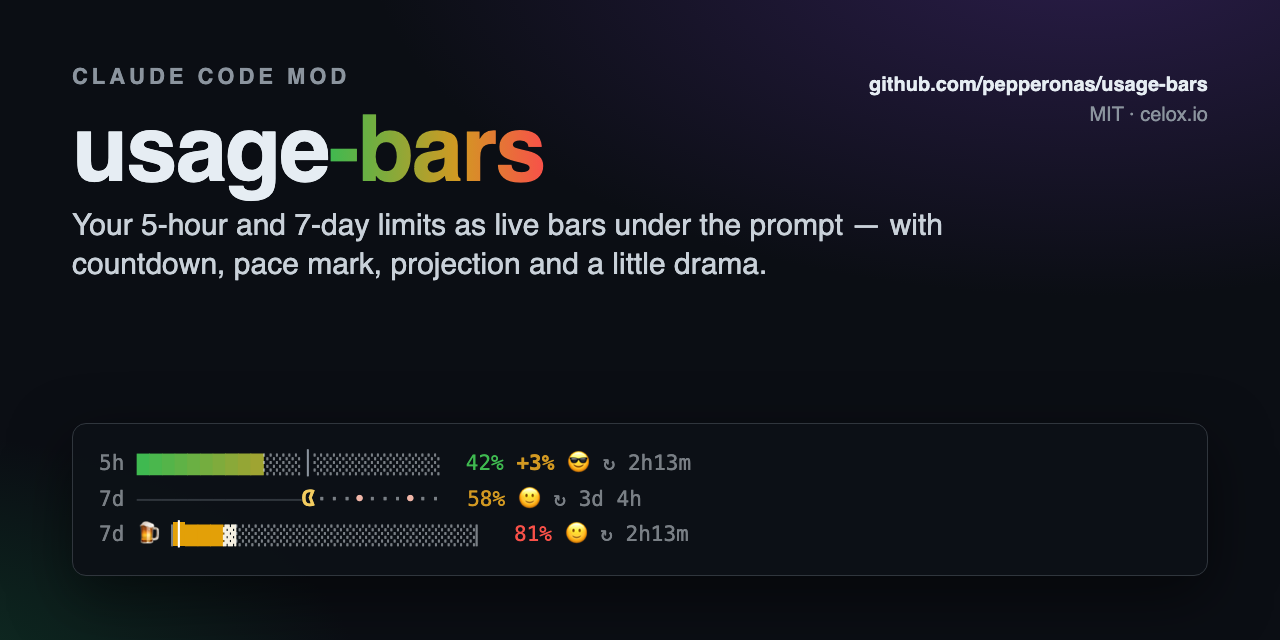
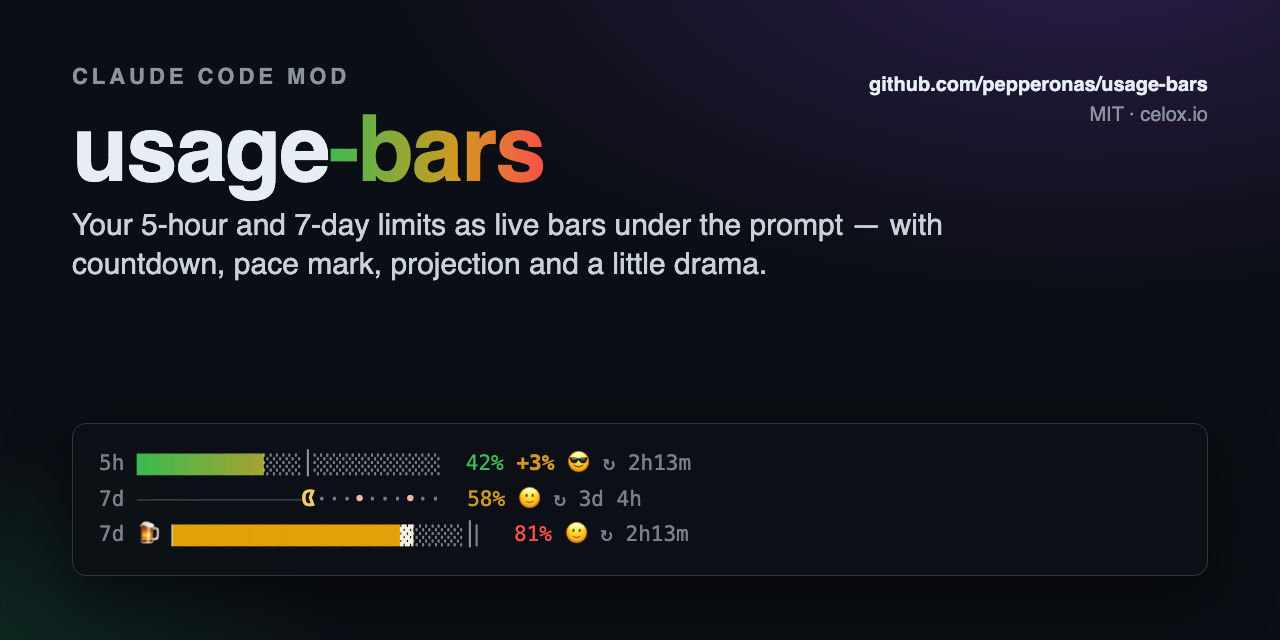
usage-bars 0.5.0: every style fills with what is used
beer, tank, battery and hourglass filled with what was left while the
percent next to them showed what was used, and their pace mark was
mirrored. All six styles now read like bars: fill from the left is used,
the empty part behind it is left, the pace mark sits in the same cell,
fill colours follow the used percent. tank drops its E…F labels.

Claude-Session: https://claude.ai/code/session_01F4Q3EovnSAXKLjWUuwJyKq

Changed region(s): [[0.125, 0.8125, 0.375, 0.875]]

diff --git a/hooks/styles.ts b/hooks/styles.ts
@@ -86,14 +86,22 @@ function pacman(p: number, width: number, ctx: StyleCtx): Seg[] {
   return merge(segs)
 }
 
-/** Beer, battery, tank and hourglass show what is LEFT. */
+/** Traffic-light colour of a fill by what is used, as the percent next to it. */
+const usedColor = (p: number) => (p >= 80 ? RED : p >= 50 ? YELLOW : GREEN)
+
+/*
+ * Every style reads like `bars`: the fill from the left is what is used, the
+ * empty track behind it is what is left, and the pace mark sits at the same cell.
+ */
+
+/** The glass fills with what you drank; the foam rides on top. */
 function beer(p: number, width: number, ctx: StyleCtx): Seg[] {
-  const left = Math.round(cover(100 - p, width))
-  const mark = markCell(ctx.pace === undefined ? undefined : 1 - ctx.pace, width)
+  const used = Math.round(cover(p, width))
+  const mark = markCell(ctx.pace, width)
   const segs: Seg[] = [{ text: '🍺' }, { text: '▕', dim: true }]
   for (let i = 0; i < width; i++) {
-    if (i < left - 1) segs.push(i === mark ? tick('#e3a008') : { text: '█', color: '#e3a008' })
-    else if (i === left - 1) segs.push({ text: '▓', color: '#f5f0e1' })
+    if (i < used - 1) segs.push(i === mark ? tick('#e3a008') : { text: '█', color: '#e3a008' })
+    else if (i === used - 1) segs.push({ text: '▓', color: '#f5f0e1' })
     else if (i === mark) segs.push({ text: '│', color: MARK })
     else segs.push({ text: '░', dim: true })
   }
@@ -101,11 +109,12 @@ function beer(p: number, width: number, ctx: StyleCtx): Seg[] {
   return merge(segs)
 }
 
+/** Drained charge from the left; ⚡ flashes from 90 % used. */
 function battery(p: number, width: number, ctx: StyleCtx): Seg[] {
-  const left = 100 - clamp(p, 0, 100)
-  const n = Math.round(cover(left, width))
-  const col = left <= 20 ? RED : left <= 50 ? YELLOW : GREEN
-  const mark = markCell(ctx.pace === undefined ? undefined : 1 - ctx.pace, width)
+  const used = clamp(p, 0, 100)
+  const n = Math.round(cover(used, width))
+  const col = usedColor(used)
+  const mark = markCell(ctx.pace, width)
   const segs: Seg[] = [{ text: '▕', dim: true }]
   for (let i = 0; i < width; i++) {
     if (i < n) segs.push(i === mark ? tick(col) : { text: '█', color: col })
@@ -113,32 +122,33 @@ function battery(p: number, width: number, ctx: StyleCtx): Seg[] {
     else segs.push({ text: '░', dim: true })
   }
   segs.push({ text: '▏', dim: true }, { text: '▌', dim: true })
-  if (left <= 10 && ctx.second % 2 === 0) segs.push({ text: '⚡', color: YELLOW })
+  if (used >= 90 && ctx.second % 2 === 0) segs.push({ text: '⚡', color: YELLOW })
   return merge(segs)
 }
 
+/** Burnt fuel ▮ from the left, what is left ▯ behind it. */
 function tank(p: number, width: number, ctx: StyleCtx): Seg[] {
   const cells = Math.max(4, Math.floor(width / 2))
-  const left = 100 - clamp(p, 0, 100)
-  const n = Math.round((left / 100) * cells)
-  const col = left <= 20 ? RED : left <= 50 ? YELLOW : GREEN
-  const mark = markCell(ctx.pace === undefined ? undefined : 1 - ctx.pace, cells)
-  const segs: Seg[] = [{ text: '⛽E ', dim: true }]
+  const used = clamp(p, 0, 100)
+  const n = Math.round((used / 100) * cells)
+  const col = usedColor(used)
+  const mark = markCell(ctx.pace, cells)
+  const segs: Seg[] = [{ text: '⛽ ', dim: true }]
   for (let i = 0; i < cells; i++) {
     const glyph = i < n ? '▮' : '▯'
     segs.push(i === mark ? { text: glyph, color: TICK, bold: true } : i < n ? { text: glyph, color: col } : { text: glyph, dim: true })
   }
-  segs.push({ text: ' F', dim: true })
   return merge(segs)
 }
 
+/** Sand that has run through ⣿ from the left, sand still to come ⣀ behind it. */
 function hourglass(p: number, width: number, ctx: StyleCtx): Seg[] {
-  const left = Math.round(cover(100 - p, width))
-  const mark = markCell(ctx.pace === undefined ? undefined : 1 - ctx.pace, width)
+  const used = Math.round(cover(p, width))
+  const mark = markCell(ctx.pace, width)
   const segs: Seg[] = [{ text: ctx.second % 2 === 0 ? '⏳' : '⌛' }]
   for (let i = 0; i < width; i++) {
     if (i === mark) segs.push({ text: '│', color: MARK })
-    else if (i < left) segs.push({ text: '⣿', color: '#d4a373' })
+    else if (i < used) segs.push({ text: '⣿', color: '#d4a373' })
     else segs.push({ text: '⣀', dim: true })
   }
   return merge(segs)

diff --git a/tests/styles.spec.ts b/tests/styles.spec.ts
@@ -21,7 +21,7 @@ test('bars: the pace mark sits right after where even use would end', () => {
 
 test('the pace mark inside a filled bar is a thin line on the fill, not a block', () => {
   for (const style of ['bars', 'battery', 'beer'] as const) {
-    const p = style === 'bars' ? 90 : 10 // the mark lands inside the filled part
+    const p = 90 // the mark lands inside the filled part
     const mark = drawStyle(style, p, 10, { ...ctx, pace: 0.5 }).find(s => s.text === '│')
     assert.ok(mark, `${style}: no mark`)
     assert.ok(mark.bg, `${style}: the mark has no fill behind it`)
@@ -45,11 +45,31 @@ test('pacman eats up to the value; a ghost chases it from 90 %', () => {
   assert.ok(text(drawStyle('pacman', 50, 10, { ...ctx, chomp: true })).includes('●'))
 })
 
-test('battery, beer, tank and hourglass show what is left', () => {
-  assert.equal((text(drawStyle('battery', 30, 10, ctx)).match(/█/g) ?? []).length, 7)
-  assert.equal(text(drawStyle('tank', 50, 20, ctx)), '⛽E ▮▮▮▮▮▯▯▯▯▯ F')
-  assert.ok(text(drawStyle('beer', 0, 4, ctx)).startsWith('🍺'))
-  assert.equal((text(drawStyle('hourglass', 75, 8, ctx)).match(/⣿/g) ?? []).length, 2)
+test('every style fills with what is used, what is left stays behind it', () => {
+  assert.equal(text(drawStyle('battery', 30, 10, ctx)), '▕███░░░░░░░▏▌')
+  assert.equal(text(drawStyle('tank', 30, 20, ctx)), '⛽ ▮▮▮▯▯▯▯▯▯▯')
+  assert.equal(text(drawStyle('beer', 25, 8, ctx)), '🍺▕█▓░░░░░░▏')
+  assert.equal(text(drawStyle('hourglass', 75, 8, ctx)), '⏳⣿⣿⣿⣿⣿⣿⣀⣀')
+})
+
+test('the pace mark sits in the same cell in every style', () => {
+  const prefix: Record<string, number> = { bars: 0, beer: 2, battery: 1, hourglass: 1 }
+  // an uneven pace: a mirrored mark would land somewhere else
+  for (const [style, skip] of Object.entries(prefix)) {
+    const chars = [...text(drawStyle(style as 'bars', 10, 8, { ...ctx, pace: 0.75 }))]
+    assert.equal(chars.indexOf('│') - skip, 6, style)
+  }
+  // tank: 8 cells at width 16, a quarter of the window gone → cell 2, like bars on 8 cells
+  const segs = drawStyle('tank', 10, 16, { ...ctx, pace: 0.25 })
+  const at = segs.findIndex(s => s.bold)
+  const before = segs.slice(0, at).reduce((n, s) => n + [...s.text].length, 0)
+  assert.equal(before - 2, [...text(drawStyle('bars', 10, 8, { ...ctx, pace: 0.25 }))].indexOf('│'))
+})
+
+test('fill colours follow what is used, like the percent next to them', () => {
+  assert.equal(drawStyle('battery', 20, 10, ctx).find(s => s.text.includes('█'))!.color, '#3fb950')
+  assert.equal(drawStyle('battery', 85, 10, ctx).find(s => s.text.includes('█'))!.color, '#f85149')
+  assert.equal(drawStyle('tank', 85, 20, ctx).find(s => s.text.includes('▮'))!.color, '#f85149')
 })
 
 test('the battery flashes ⚡ when almost empty', () => {

diff --git a/hooks/styles.test.ts b/hooks/styles.test.ts
@@ -19,11 +19,11 @@ describe('styles', () => {
     expect(text(drawStyle('pacman', 92, 12, ctx))).toBe('─────────ᗣ─ᗧ')
     expect(text(drawStyle('pacman', 50, 10, { ...ctx, chomp: true }))).toContain('●')
   })
-  test('battery, beer, tank and hourglass show what is left', async () => {
-    expect((text(drawStyle('battery', 30, 10, ctx)).match(/█/g) ?? []).length).toBe(7)
-    expect(text(drawStyle('tank', 50, 20, ctx))).toBe('⛽E ▮▮▮▮▮▯▯▯▯▯ F')
-    expect(text(drawStyle('beer', 0, 4, ctx))).toContain('🍺')
-    expect((text(drawStyle('hourglass', 75, 8, ctx)).match(/⣿/g) ?? []).length).toBe(2)
+  test('every style fills with what is used, what is left behind it', async () => {
+    expect(text(drawStyle('battery', 30, 10, ctx))).toBe('▕███░░░░░░░▏▌')
+    expect(text(drawStyle('tank', 30, 20, ctx))).toBe('⛽ ▮▮▮▯▯▯▯▯▯▯')
+    expect(text(drawStyle('beer', 25, 8, ctx))).toBe('🍺▕█▓░░░░░░▏')
+    expect(text(drawStyle('hourglass', 75, 8, ctx))).toBe('⏳⣿⣿⣿⣿⣿⣿⣀⣀')
   })
   test('every style draws at every value without throwing', async () => {
     for (const s of STYLES) for (const p of [0, 1, 49.5, 99, 100, 130]) expect(text(drawStyle(s, p, 12, { ...ctx, pace: 0.3 })).length > 0).toBe(true)

diff --git a/hooks/render.test.tsx b/hooks/render.test.tsx
@@ -237,7 +237,7 @@ test('prefs survive a new session through the store', async ($, on) => {
   await start($)
   await measure($, [{ kind: 'five_hour', percentUsed: 42 }])
   const ui = await mount($, 'terminal')
-  expect(await all(ui)).toContain('⛽E')
+  expect(await all(ui)).toContain('⛽ ')
 })
 
 test('/usage-bars demo plays the animation', async ($, on) => {

diff --git a/README.md b/README.md
@@ -14,8 +14,8 @@
 
 <h3>👉 <code>/plugin marketplace add pepperonas/usage-bars</code> · <code>/plugin install usage-bars@pepperonas</code> — that's it.</h3>
 
-[![version](https://img.shields.io/badge/version-0.4.2-7B4DFF?style=for-the-badge&logo=anthropic&logoColor=white)](CHANGELOG.md)
-[![node tests](https://img.shields.io/badge/node%20tests-73-2E9E5B?style=for-the-badge&logo=nodedotjs&logoColor=white)](tests)
+[![version](https://img.shields.io/badge/version-0.5.0-7B4DFF?style=for-the-badge&logo=anthropic&logoColor=white)](CHANGELOG.md)
+[![node tests](https://img.shields.io/badge/node%20tests-75-2E9E5B?style=for-the-badge&logo=nodedotjs&logoColor=white)](tests)
 [![engine tests](https://img.shields.io/badge/engine%20tests-41-2E9E5B?style=for-the-badge&logo=anthropic&logoColor=white)](hooks)
 [![lines of code](https://img.shields.io/badge/lines%20of%20code-0.9k-4B6BDF?style=for-the-badge&logo=typescript&logoColor=white)](hooks)
 
@@ -72,7 +72,7 @@
 
 <img src="docs/styles.png" alt="The six styles: bars, pacman, beer, tank, battery, hourglass" width="100%">
 
-<sub><code>bars</code> and <code>pacman</code> show what you <b>used</b>; <code>beer</code>, <code>tank</code>, <code>battery</code> and <code>hourglass</code> show what is <b>left</b>. Switch with <code>/usage-bars style &lt;name&gt;</code> — or just <code>/usage-bars pacman</code>.</sub>
+<sub>Every style reads the same way: the fill from the left is what you <b>used</b> — the same number as the percent next to it — and the empty part behind it is what is <b>left</b>. The pace mark sits in the same place in every style. Switch with <code>/usage-bars style &lt;name&gt;</code> — or just <code>/usage-bars pacman</code>.</sub>
 
 ### Hover card
 
@@ -95,7 +95,7 @@
 - **Every session shows the same figures** — a session only hears about the limits from its own answers, so an idle one would keep showing old numbers, or zero a window another session already uses. Each session hands what it hears to the others through the mod's store, and every session looks there every 5 seconds.
 - **100 % gets a quip** — `☕ Coffee break – back in 1h12m`, one of seven, stable per window.
 - **Toasts** at 50 / 80 / 90 / 100 %, once per window (remembered across sessions), with an optional chime at 90 % and on reset.
-- **Six styles** — `bars`, `pacman` (a ghost chases Pac-Man from 90 %), `beer`, `tank`, `battery` (⚡ flashes when nearly empty), `hourglass`.
+- **Six styles** — `bars`, `pacman` (a ghost chases Pac-Man from 90 %), `beer`, `tank`, `battery` (⚡ flashes from 90 % used), `hourglass`.
 - **Compact mode** — `5h 42% 😎 ↻2h13m   7d 67% 😬 ↻3d 4h`; automatic below 72 columns.
 - **Stats** — `/usage-bars stats`: burn rate, projection, sparklines of your 5-hour peaks over 24 h and 7 days, your record.
 - **English and German** — `/usage-bars lang de`.
@@ -259,6 +259,7 @@ npm run screenshots      # re-render docs/ (needs `npx playwright install chromi
 
 The full history is in [CHANGELOG.md](CHANGELOG.md) ([Keep a Changelog](https://keepachangelog.com/en/1.1.0/)).
 
+- **0.5.0** — every style fills with what is used, like `bars`; what is left is the empty part behind it.
 - **0.4.2** — the 7-day sparkline shows the 7-day level, and steady hours no longer show as gaps.
 - **0.4.1** — every session shows the same, current figures; an idle one no longer shows old numbers or a 0 % window.
 - **0.4.0** — typing `/usage-bars ` lists what may follow, under the prompt.

diff --git a/CHANGELOG.md b/CHANGELOG.md
@@ -4,6 +4,18 @@ All notable changes to this project are documented here. The format follows
 [Keep a Changelog](https://keepachangelog.com/en/1.1.0/), and the project uses
 [Semantic Versioning](https://semver.org/).
 
+## [0.5.0] - 2026-10-12
+
+### Changed
+- Every style now reads like `bars`: the fill from the left is what is used, the empty part behind
+  it is what is left. `beer`, `tank`, `battery` and `hourglass` used to fill with what was left,
+  while the percent next to them showed what was used, and their pace mark was mirrored — a nearly
+  full beer glass stood next to "10%". The glass now fills with what you drank, the battery drains
+  from the left, the tank counts burnt fuel and the sand runs through from the left; the pace mark
+  sits in the same cell as in `bars`, and fill colours follow the used percent.
+- `tank` lost its `E … F` labels, which no longer matched the direction.
+- `battery` flashes ⚡ from 90 % used (the same threshold as before, counted the other way).
+
 ## [0.4.2] - 2026-10-07
 
 ### Fixed
